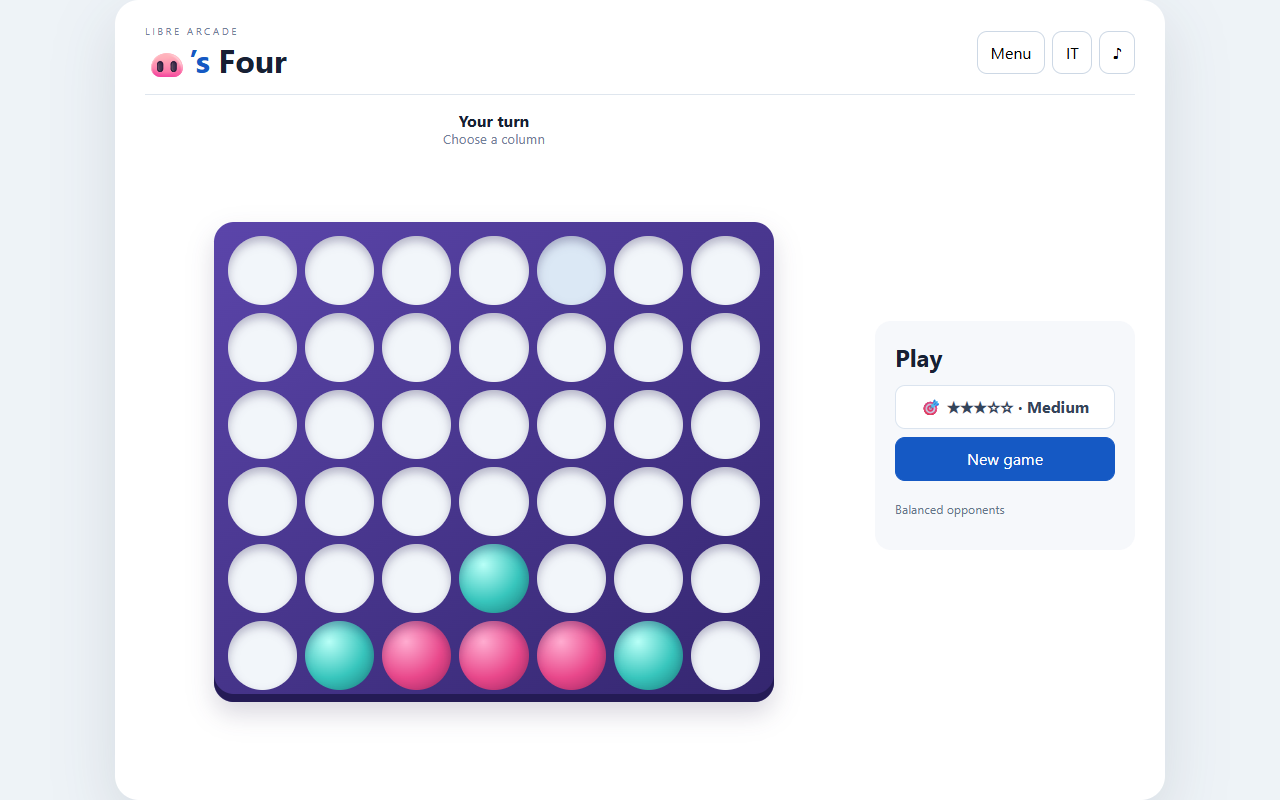
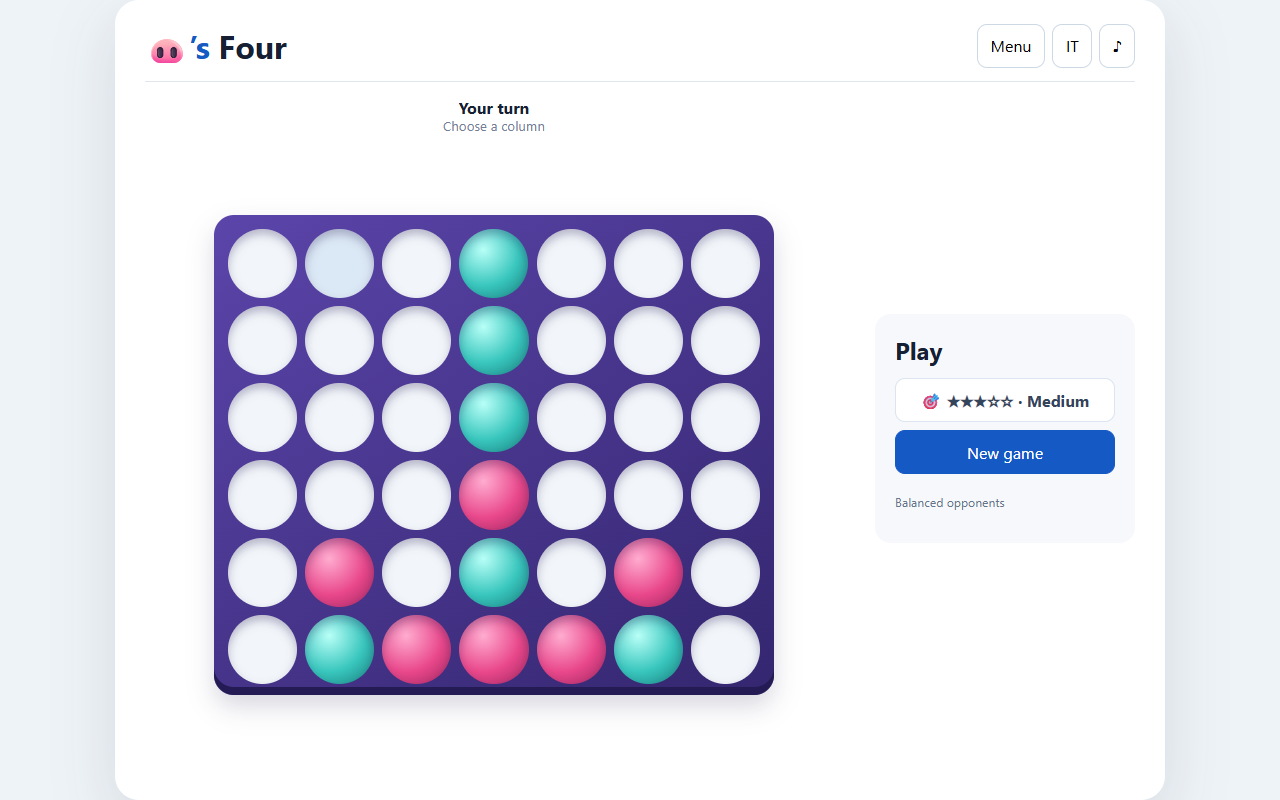
UI improvement

diff --git a/grugnettos-four/public/src/ui/app.css b/grugnettos-four/public/src/ui/app.css
@@ -1,10 +1,10 @@
-:root{font-family:Inter,ui-rounded,system-ui,sans-serif;color:#172033;background:#eef3f7;--blue:#1559c4;--red:#ef4456;--yellow:#ffd447}*{box-sizing:border-box}body{margin:0;min-height:100vh;display:grid;place-items:center}.shell{width:min(1050px,100%);min-height:min(720px,100vh);background:#fff;border-radius:24px;box-shadow:0 20px 60px #20304a22;padding:24px 30px}header{display:flex;justify-content:space-between;align-items:center;border-bottom:1px solid #dfe6ee;padding-bottom:13px}.eyebrow{margin:0;font-size:.65rem;letter-spacing:.22em;color:#718098}h1{margin:0;font-size:2rem}h1 span{color:var(--blue)}nav{display:flex;gap:7px}button,select,input{font:inherit;border:1px solid #cdd8e5;border-radius:10px;background:#fff;padding:.65rem .8rem}button{cursor:pointer}nav button.active,.primary{color:#fff;background:var(--blue);border-color:var(--blue)}.panel{display:grid;grid-template-columns:minmax(440px,1fr) 260px;gap:32px;padding:24px 0}.hidden{display:none}.game-area{display:grid;place-items:center}.status{text-align:center;margin-bottom:12px}.status strong,.status small{display:block}.status small{color:#718098}.board{width:min(100%,560px);aspect-ratio:7/6;padding:14px;display:grid;grid-template-columns:repeat(7,1fr);grid-template-rows:repeat(6,1fr);gap:8px;background:linear-gradient(145deg,#176bd8,#0d49a8);border-radius:20px;box-shadow:inset 0 -8px 0 #0a3a88,0 12px 25px #12366e2b}.cell{border:0;padding:0;border-radius:50%;background:#f2f6fa;box-shadow:inset 0 5px 9px #0a36794d;aspect-ratio:1}.cell.p1{background:radial-gradient(circle at 35% 30%,#ff8590,var(--red) 55%,#b91934)}.cell.p2{background:radial-gradient(circle at 35% 30%,#fff4a0,var(--yellow) 55%,#dda900)}.cell:not(.p1):not(.p2):hover{background:#dbe8f5}aside{display:flex;flex-direction:column;gap:8px;background:#f6f8fb;padding:20px;border-radius:16px}aside label{font-size:.76rem;font-weight:700;margin-top:5px}.seed{display:flex;gap:6px}.seed input{min-width:0;width:100%}.note{color:#65758b;font-size:.76rem;line-height:1.4}.arena-card{grid-column:1/-1;max-width:700px;margin:auto;text-align:center}.versus{display:flex;gap:15px;align-items:center;justify-content:center;margin:24px}.arena-card pre{text-align:left;white-space:pre-wrap;background:#101827;color:#d8e7ff;padding:18px;border-radius:12px;min-height:120px}dialog{max-width:480px;border:0;border-radius:18px;padding:28px;box-shadow:0 20px 60px #0004}dialog::backdrop{background:#17203399}#closeHelp{float:right;border:0;font-size:1.3rem}@media(max-width:760px){body{display:block}.shell{border-radius:0;padding:14px;min-height:100vh}header{align-items:flex-end}nav button{padding:.55rem}nav button:first-child,nav button:nth-child(2){font-size:0}nav button:first-child:after{content:'●';font-size:1rem}nav button:nth-child(2):after{content:'⚔';font-size:1rem}.panel{grid-template-columns:1fr;padding:12px 0;gap:14px}.game-area{order:1}.board{width:min(92vw,55vh);padding:8px;gap:5px}aside{order:2;display:grid;grid-template-columns:1fr 1fr;padding:12px}aside .primary,aside .note{grid-column:1/-1}.status{margin-bottom:5px}h1{font-size:1.55rem}}
+:root{font-family:Inter,ui-rounded,system-ui,sans-serif;color:#172033;background:#eef3f7;--blue:#1559c4;--red:#ef4456;--yellow:#ffd447}*{box-sizing:border-box}body{margin:0;min-height:100vh;display:grid;place-items:center}.shell{width:min(1050px,100%);min-height:min(720px,100vh);background:#fff;border-radius:24px;box-shadow:0 20px 60px #20304a22;padding:24px 30px}header{display:flex;justify-content:space-between;align-items:center;border-bottom:1px solid #dfe6ee;padding-bottom:13px}h1{margin:0;font-size:2rem}h1 span{color:var(--blue)}nav{display:flex;gap:7px}button,select,input{font:inherit;border:1px solid #cdd8e5;border-radius:10px;background:#fff;padding:.65rem .8rem}button{cursor:pointer}nav button.active,.primary{color:#fff;background:var(--blue);border-color:var(--blue)}.panel{display:grid;grid-template-columns:minmax(440px,1fr) 260px;gap:32px;padding:24px 0}.hidden{display:none}.game-area{display:grid;place-items:center}.status{text-align:center;margin-bottom:12px}.status strong,.status small{display:block}.status small{color:#718098}.board{width:min(100%,560px);aspect-ratio:7/6;padding:14px;display:grid;grid-template-columns:repeat(7,1fr);grid-template-rows:repeat(6,1fr);gap:8px;background:linear-gradient(145deg,#176bd8,#0d49a8);border-radius:20px;box-shadow:inset 0 -8px 0 #0a3a88,0 12px 25px #12366e2b}.cell{border:0;padding:0;border-radius:50%;background:#f2f6fa;box-shadow:inset 0 5px 9px #0a36794d;aspect-ratio:1}.cell.p1{background:radial-gradient(circle at 35% 30%,#ff8590,var(--red) 55%,#b91934)}.cell.p2{background:radial-gradient(circle at 35% 30%,#fff4a0,var(--yellow) 55%,#dda900)}.cell:not(.p1):not(.p2):hover{background:#dbe8f5}aside{display:flex;flex-direction:column;gap:8px;background:#f6f8fb;padding:20px;border-radius:16px}aside label{font-size:.76rem;font-weight:700;margin-top:5px}.seed{display:flex;gap:6px}.seed input{min-width:0;width:100%}.note{color:#65758b;font-size:.76rem;line-height:1.4}.arena-card{grid-column:1/-1;max-width:700px;margin:auto;text-align:center}.versus{display:flex;gap:15px;align-items:center;justify-content:center;margin:24px}.arena-card pre{text-align:left;white-space:pre-wrap;background:#101827;color:#d8e7ff;padding:18px;border-radius:12px;min-height:120px}dialog{max-width:480px;border:0;border-radius:18px;padding:28px;box-shadow:0 20px 60px #0004}dialog::backdrop{background:#17203399}#closeHelp{float:right;border:0;font-size:1.3rem}@media(max-width:760px){body{display:block}.shell{border-radius:0;padding:14px;min-height:100vh}header{align-items:flex-end}nav button{padding:.55rem}nav button:first-child,nav button:nth-child(2){font-size:0}nav button:first-child:after{content:'●';font-size:1rem}nav button:nth-child(2):after{content:'⚔';font-size:1rem}.panel{grid-template-columns:1fr;padding:12px 0;gap:14px}.game-area{order:1}.board{width:min(92vw,55vh);padding:8px;gap:5px}aside{order:2;display:grid;grid-template-columns:1fr 1fr;padding:12px}aside .primary,aside .note{grid-column:1/-1}.status{margin-bottom:5px}h1{font-size:1.55rem}}
 .menu-panel{padding:42px 0 20px;max-width:820px;margin:auto}.menu-copy{text-align:center;margin-bottom:28px}.menu-copy h2{font-size:2rem;margin:.25rem 0}.menu-copy p:last-child{color:#65758b}.menu-grid{display:grid;grid-template-columns:repeat(2,1fr);gap:14px}.menu-card{min-height:112px;text-align:left;padding:20px;display:flex;flex-direction:column;justify-content:center;gap:7px}.menu-card strong{font-size:1.2rem}.menu-card span{font-size:.82rem;opacity:.78}.menu-card:last-child{grid-column:1/-1}.close-dialog{float:right;border:0;font-size:1.3rem}aside h2{margin:0 0 4px}#labControls{display:flex;flex-direction:column;gap:8px}#labControls.hidden{display:none}#credits a{color:var(--blue);font-weight:700}@media(max-width:760px){.menu-panel{padding:24px 0}.menu-grid{grid-template-columns:1fr}.menu-card:last-child{grid-column:auto}nav button:first-child,nav button:nth-child(2){font-size:inherit}nav button:first-child:after,nav button:nth-child(2):after{content:none}#labControls{grid-column:1/-1}}
 .setup-screen{min-height:610px;display:grid;place-items:center;padding:28px 0 10px}.setup-card{width:min(100%,520px);padding:34px;border:1px solid #dfe6ee;border-radius:22px;background:#f8fafc;box-shadow:0 20px 55px #20304a18;text-align:center}.setup-mark{font-size:3.1rem;line-height:1}.setup-card h2{font-size:2.4rem;margin:.15rem 0}.setup-card>p{color:#65758b;margin:.25rem 0 1.6rem}.setup-form{display:flex;flex-direction:column;gap:9px;text-align:left}.setup-form label{font-size:.8rem;font-weight:750;margin-top:5px}.setup-label{display:flex;align-items:center;gap:.35rem}.setup-label label{margin:0}.info-button{border:0;background:transparent;color:var(--blue);padding:.1rem .25rem;font-size:1.05rem}.play-button{margin-top:12px;text-align:center}.secondary-menu{display:flex;justify-content:center;flex-wrap:wrap;gap:7px;margin-top:18px;padding-top:15px;border-top:1px solid #dfe6ee}.secondary-menu button{padding:.45rem .65rem;font-size:.78rem}.app-footer{grid-column:1/-1;margin-top:12px;color:#718098;font-size:.72rem;text-align:center}.app-footer a{color:var(--blue);font-weight:750;text-decoration:none}.level-badge{padding:.65rem .8rem;border:1px solid #dbe4ef;border-radius:10px;background:#fff;color:#34445a;font-weight:750;text-align:center}.difficulty-body{max-height:58vh;overflow:auto}.difficulty-body section+section{border-top:1px solid #e4e9ef;margin-top:13px;padding-top:11px}.difficulty-body h3{margin:.2rem 0 .45rem;font-size:.95rem}.difficulty-body ul{list-style:none;margin:0;padding:0;columns:2;column-gap:22px}.difficulty-body li{break-inside:avoid;padding:.2rem 0;color:#526176;font-size:.82rem;border-bottom:1px dotted #d8dee7}@media(max-width:600px){.setup-screen{min-height:auto;padding:20px 0}.setup-card{padding:22px 16px}.difficulty-body ul{columns:1}}
 .hidden{display:none!important}.board{overflow:hidden}.cell.chip-drop{position:relative;z-index:2;animation:chip-drop var(--drop-duration,420ms) cubic-bezier(.22,.72,.28,1.18) both;will-change:transform}@keyframes chip-drop{0%{transform:translateY(calc(-1 * var(--drop-distance)));filter:brightness(1.12)}76%{transform:translateY(5%)}89%{transform:translateY(-2%)}100%{transform:translateY(0);filter:none}}@media(prefers-reduced-motion:reduce){.cell.chip-drop{animation:none}}
 body[data-screen="play"]{height:100dvh;min-height:0;overflow:hidden}body[data-screen="play"] .shell{height:100dvh;min-height:0;overflow:hidden;display:flex;flex-direction:column}body[data-screen="play"] header{flex:0 0 auto}body[data-screen="play"] #playPanel{flex:1;min-height:0;align-items:center;padding:clamp(8px,2vh,20px) 0}body[data-screen="play"] .game-area{height:100%;min-height:0;grid-template-rows:auto minmax(0,1fr)}body[data-screen="play"] .board{width:min(560px,calc((100dvh - 150px)*7/6),calc(100vw - 360px));max-width:100%;max-height:calc(100dvh - 150px)}body[data-screen="play"] aside{max-height:calc(100dvh - 110px);overflow:hidden}
 @media(max-width:760px){body[data-screen="play"] .shell{padding:max(8px,env(safe-area-inset-top)) max(10px,env(safe-area-inset-right)) max(8px,env(safe-area-inset-bottom)) max(10px,env(safe-area-inset-left))}body[data-screen="play"] header{padding-bottom:8px}body[data-screen="play"] #playPanel{grid-template-rows:minmax(0,1fr) auto;gap:8px;padding:8px 0}body[data-screen="play"] .game-area{order:1}body[data-screen="play"] .board{width:min(94vw,calc((100dvh - 245px)*7/6));max-height:calc(100dvh - 245px);padding:clamp(5px,1.5vw,8px);gap:clamp(3px,1vw,5px)}body[data-screen="play"] aside{order:2;max-height:none;padding:8px 10px;gap:5px;grid-template-columns:auto 1fr}body[data-screen="play"] aside h2{font-size:1rem;align-self:center}body[data-screen="play"] .level-badge{padding:.45rem .55rem;font-size:.78rem}body[data-screen="play"] aside .primary{grid-column:1/2;padding:.48rem .65rem}body[data-screen="play"] aside .note{grid-column:2/3;margin:0;align-self:center}body[data-screen="play"] .status{margin-bottom:4px;font-size:.9rem}body[data-screen="play"] .status small{font-size:.72rem}}
-@media(max-width:420px),(max-height:620px){body[data-screen="play"] .board{width:min(94vw,calc((100dvh - 220px)*7/6));max-height:calc(100dvh - 220px)}body[data-screen="play"] header .eyebrow{display:none}body[data-screen="play"] header h1{font-size:1.25rem}body[data-screen="play"] nav button{padding:.42rem .52rem}body[data-screen="play"] aside h2{display:none}body[data-screen="play"] aside{grid-template-columns:1fr 1fr}}
+@media(max-width:420px),(max-height:620px){body[data-screen="play"] .board{width:min(94vw,calc((100dvh - 220px)*7/6));max-height:calc(100dvh - 220px)}body[data-screen="play"] header h1{font-size:1.25rem}body[data-screen="play"] nav button{padding:.42rem .52rem}body[data-screen="play"] aside h2{display:none}body[data-screen="play"] aside{grid-template-columns:1fr 1fr}}
 .arena-card{width:min(920px,100%);max-width:none}.arena-output{margin-top:18px;text-align:left}.arena-summary{display:flex;align-items:center;justify-content:space-between;gap:12px;margin:12px 0}.arena-summary label{font-size:.8rem}.arena-summary select{padding:.4rem}.table-scroll{overflow:auto;border:1px solid #dfe6ee;border-radius:12px}.arena-output table{width:100%;border-collapse:collapse;font-variant-numeric:tabular-nums}.arena-output th,.arena-output td{padding:.55rem .65rem;border-bottom:1px solid #e6ebf1;text-align:right;white-space:nowrap}.arena-output th:nth-child(2),.arena-output td:nth-child(2),.arena-output th:nth-child(3),.arena-output td:nth-child(3){text-align:left}.arena-output tbody tr:last-child td{border-bottom:0}.badge{display:inline-block;padding:.15rem .42rem;border-radius:999px;background:#e8eef6;color:#526176;font-size:.68rem}.badge.derived{background:#e8f2ff;color:#1559c4}.badge.control{background:#fff2cc;color:#795d00}.arena-output details{margin-top:12px}.arena-output summary{cursor:pointer;font-weight:700;font-size:.8rem}@media(max-width:760px){.arena-summary{align-items:flex-start;flex-direction:column}.arena-output th,.arena-output td{padding:.45rem}.arena-card{width:100%}}
 .lab-control.mode-hidden{display:none!important}#strength option{font-variant-numeric:tabular-nums}
 .strength-ranking{margin:14px 0;text-align:left}.strength-ranking summary{cursor:pointer;font-weight:700}.strength-ranking .table-scroll{margin-top:10px;max-height:330px}.strength-ranking table{width:100%;border-collapse:collapse;font-variant-numeric:tabular-nums}.strength-ranking th,.strength-ranking td{padding:.45rem .6rem;border-bottom:1px solid #e6ebf1;text-align:right}.strength-ranking th:nth-child(2),.strength-ranking td:nth-child(2){text-align:left}

diff --git a/grugnettos-four/public/src/ui/viewport.css b/grugnettos-four/public/src/ui/viewport.css
@@ -52,7 +52,6 @@ body[data-screen="menu"] .setup-card { max-height: 100%; }
 @media (max-height: 720px) {
   body[data-screen="menu"] .shell { padding: 12px 20px; }
   body[data-screen="menu"] header { padding-bottom: 8px; }
-  body[data-screen="menu"] header .eyebrow { display: none; }
   body[data-screen="menu"] header h1 { font-size: 1.5rem; }
   body[data-screen="menu"] nav button { padding: .48rem .62rem; }
   body[data-screen="menu"] .setup-screen { padding: 8px 0 0; }
@@ -89,3 +88,36 @@ body[data-screen="menu"] .setup-card { max-height: 100%; }
   body[data-screen="menu"] .shell { padding-left: 12px; padding-right: 12px; }
   body[data-screen="menu"] .secondary-menu { grid-template-columns: repeat(2, minmax(0, 1fr)); }
 }
+
+/* The status text above the board has a fixed height of two lines (see .status
+   above), so it can never be overlapped as long as the board is sized from the
+   space its own container really has. The fixed "100dvh - 150px" budget in
+   app.css guessed the header, padding and status heights and was off by about
+   10px at 1070x632. Engines without container query units keep that sizing. */
+.status strong,
+.status small {
+  max-width: 100%;
+  overflow: hidden;
+  text-overflow: ellipsis;
+  white-space: nowrap;
+}
+
+@supports (width: 1cqw) {
+  body[data-screen="play"] .game-area { container-type: size; }
+  body[data-screen="play"] .board {
+    width: min(560px, 100cqw, calc((100cqh - 3.5rem) * 7 / 6));
+    max-width: 100%;
+    max-height: none;
+  }
+}
+
+@media (max-width: 760px) {
+  @supports (width: 1cqw) {
+    body[data-screen="play"] .board { width: min(560px, 100cqw, calc((100cqh - 2.75rem) * 7 / 6)); }
+  }
+}
+
+/* The possessive after the pig is set like the one in the header (smaller,
+   bold, blue) so it reads as a lowercase "s", not as a capital next to the
+   large emoji. */
+.setup-mark span { font-size: .72em; font-weight: 800; color: var(--blue, #1559c4); }

diff --git a/grugnettos-four/public/index.html b/grugnettos-four/public/index.html
@@ -13,13 +13,13 @@
 <body>
   <main class="shell">
     <header>
-      <div><p class="eyebrow">LIBRE ARCADE</p><h1><span aria-hidden="true">🐽’s</span> Four</h1></div>
+      <div><h1><span aria-hidden="true">🐽’s</span> Four</h1></div>
       <nav><button id="menuBtn" data-i18n="menu">Menu</button><button id="langBtn">IT</button><button id="soundBtn" aria-label="Sound">♪</button></nav>
     </header>
 
     <section id="menuPanel" class="menu-panel setup-screen">
       <div class="setup-card">
-        <div class="setup-mark" aria-hidden="true">🐽’s</div>
+        <div class="setup-mark" aria-hidden="true">🐽<span>’s</span></div>
         <h2>Four</h2><p data-i18n="welcomeText">Challenge a different intelligence every game.</p>
         <div class="setup-form">
           <div class="setup-label"><label for="strength" data-i18n="strength">Difficulty</label><button id="difficultyInfoBtn" class="info-button" type="button" aria-label="Difficulty information">ⓘ</button></div>

diff --git a/grugnettos-four/AGENTS.md b/grugnettos-four/AGENTS.md
@@ -9,6 +9,7 @@
 - The four small C oracles (`test/gnome-velena-*-native-oracle.c`, `test/kfourinline-native-oracle.c`) are independent transcriptions, not builds of the preserved sources. They support "Level 2" claims only; do not describe the Velena or KFourInLine ports as verified against the original code.
 - Run the tests from the game root (`npm test`): they use root-relative paths such as `reference/...` and `tools/...`. Browser files live in `public/` (`public/src`, `public/arena`, `public/index.html`); tests, tools, `reference/`, `docs/` and `specs/` stay at the root. Paths inside `docs/development/PORTING_NOTES*.md` still say `src/...`: read them as `public/src/...`.
 - The Python generators must keep writing LF (`newline="\n"`), otherwise a Windows run produces CRLF and the regenerated modules differ from the committed ones.
+- Play-screen layout: `viewport.css` sizes the board from its own container (`cqw`/`cqh` on `.game-area`), which is what keeps the status text above it from being overlapped. The older `100dvh - 150px` rules in `app.css` remain only as the fallback for engines without container query units, and `test/public-ui.mjs` still asserts them. Keep the status block at two single lines (`min-height: 2.5em`, no wrapping): the board subtracts exactly that much. After touching the layout, check it at many window sizes (including about 1070 by 632 and short phone landscapes), not just one.
 - Sound: `tone()` in `public/src/ui/app.js` must keep using one shared `AudioContext`; creating one per beep exhausts the browser's context limit.
 - `public-ui.mjs` requires `CHANGELOG.md` to have exactly one `## ` heading (`## 1.0.0`) and no milestone-style labels. Internal milestone labels remain only in `docs/development/` and in the `version` field of the strength snapshot, neither of which players see.
 - "CONNECT 4" is a trademark of Hasbro (registration status not checked). The independence notice naming it lives in the README only; the game itself (Credits dialog, strings, page) carries no mention of Hasbro, by decision, and `test/public-ui.mjs` enforces both halves. Beyond that notice the name appears only in the historical names of upstream projects (`pascal-pons-connect4`, `gcompris-connect4-4stattack`, ...), never in this game's own name, folder or branding. Keep it that way.

diff --git a/grugnettos-four/CHANGELOG.md b/grugnettos-four/CHANGELOG.md
@@ -15,4 +15,5 @@
 - Fixed the interface sound: every beep created a new `AudioContext` and none was ever closed, which exhausts the context limit in some browsers (Safari allows very few); a single shared context is now reused and resumed when suspended. The peak volume is now 0.09 (it was 0.05) with a slightly longer decay, because the tones were technically playing but too quiet to notice.
 - Added a "Source code, authors and licenses" link to the Credits dialog (English and Italian), so that the source of the AGPL-3.0-or-later Pons module is offered to everyone who plays, as AGPLv3 section 13 requires of a modified, network-served program.
 - Added `tools/calibrate-strength.mjs`, which replays the Arena calibration behind the six difficulty levels and compares it with the frozen snapshot. Run for this release, it reproduced all 23 snapshot rows exactly (1,518 games, about 11 minutes).
+- Fixed the status text overlapping the board on short windows: the line above the board ("Your turn" and its subline) was covered by the grid by about 10 px at 1070 by 632, because the board was sized from a fixed guess of the header and padding heights. The board is now sized from the space its container actually has, the two status lines are kept to a single line each, the "LIBRE ARCADE" line was removed from the header (the Credits and the footer still name Libre Arcade), and the "'s" after the pig in the menu title is now set like the one in the header, so it reads as lowercase. Checked at 81 window sizes between 320 by 420 and 1600 by 860, three times over, with no overlap, and the screenshots were retaken.
 - No change to any player's move selection, search, evaluation or tie-breaking, to the six difficulty clusters, or to any preserved source under `reference/`.
